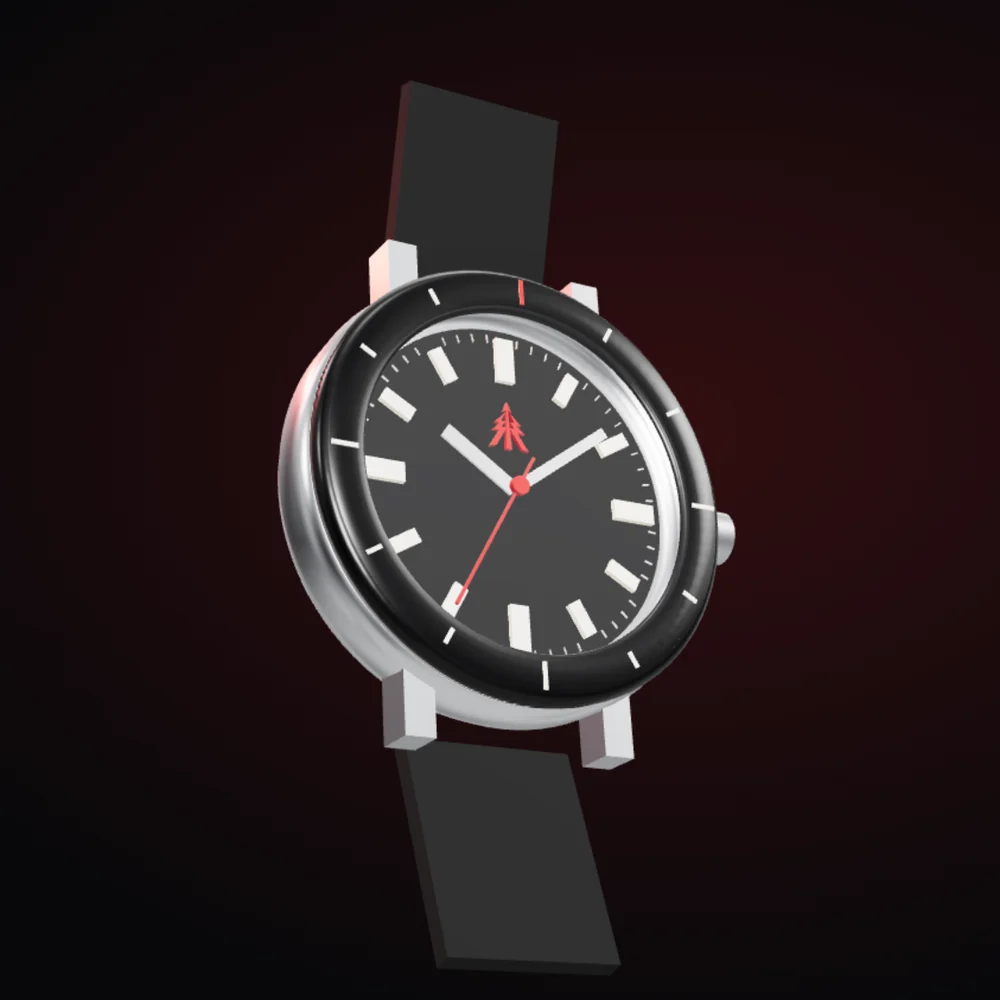
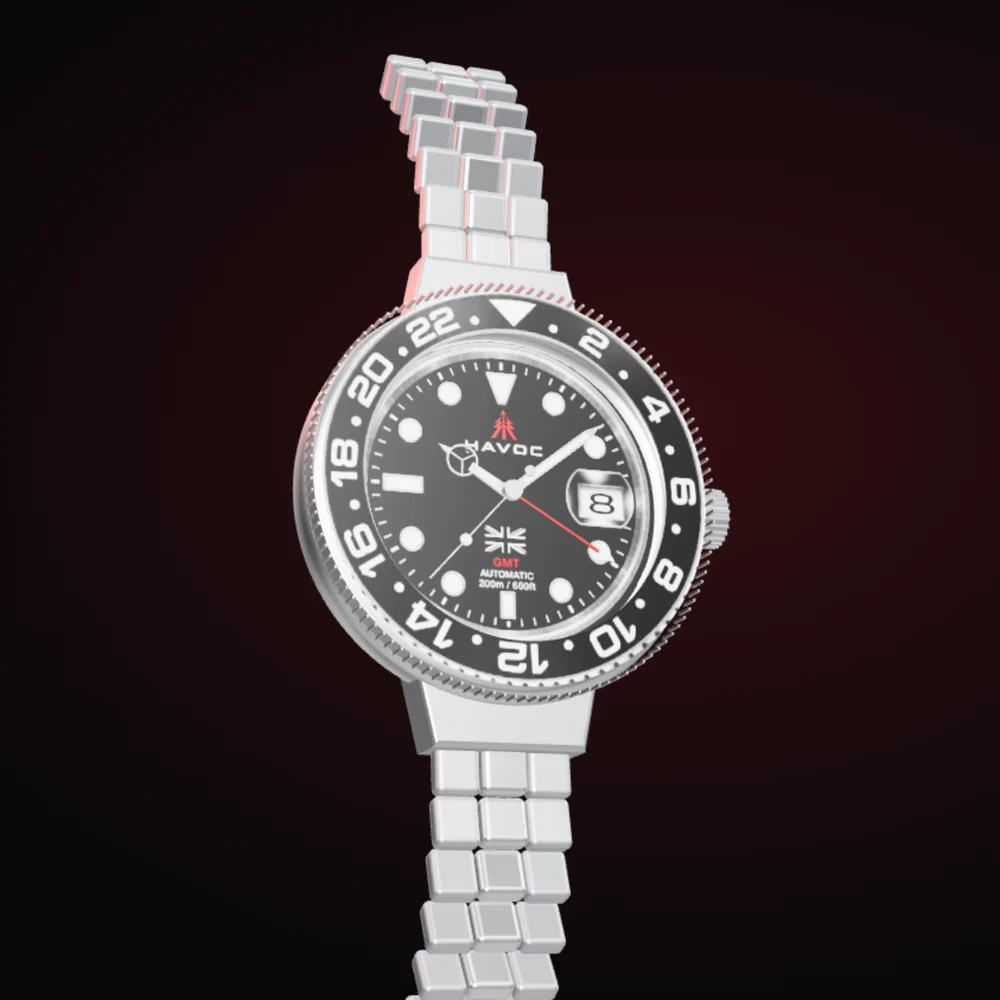
3D: real Challenger GMT replica

Changed region(s): [[0.279, 0.031, 0.744, 1.0]]

diff --git a/src/scripts/watch3d.ts b/src/scripts/watch3d.ts
@@ -1,5 +1,6 @@
 import * as THREE from 'three';
 import { RoomEnvironment } from 'three/examples/jsm/environments/RoomEnvironment.js';
+import { RoundedBoxGeometry } from 'three/examples/jsm/geometries/RoundedBoxGeometry.js';
 import { gsap } from 'gsap';
 
 type Opts = { section: HTMLElement; stage: HTMLElement; list: HTMLElement; replay: HTMLButtonElement; onReady?: () => void };
@@ -19,7 +20,7 @@ function markShape(size: number) {
   return shape;
 }
 
-export function mountWatch({ section, stage, list, replay, onReady }: Opts) {
+export async function mountWatch({ section, stage, list, replay, onReady }: Opts) {
   const host = stage.querySelector<HTMLElement>('[data-wb-canvas]')!;
   const isPhone = window.matchMedia('(max-width: 899px)').matches;
   const renderer = new THREE.WebGLRenderer({ antialias: true, alpha: true, powerPreference: 'high-performance' });
@@ -36,7 +37,7 @@ export function mountWatch({ section, stage, list, replay, onReady }: Opts) {
   scene.environment = pmrem.fromScene(new RoomEnvironment(), 0.04).texture;
 
   const camera = new THREE.PerspectiveCamera(28, 1, 0.1, 100);
-  camera.position.set(0, 0, 9.2);
+  camera.position.set(0, 0, 10.4);
 
   const key = new THREE.DirectionalLight(0xffffff, 1.4); key.position.set(3, 4, 5); scene.add(key);
   const rim = new THREE.PointLight(0xc8282c, 26, 12, 1.6); rim.position.set(-2.6, 1.8, -1.5); scene.add(rim);
@@ -58,71 +59,118 @@ export function mountWatch({ section, stage, list, replay, onReady }: Opts) {
   const parts: Record<string, THREE.Group> = {};
   const mk = (name: string) => { const g = new THREE.Group(); g.name = name; parts[name] = g; watch.add(g); return g; };
 
-  // CASE (+ lugs, crown, caseback, straps)
+  // ── Replica of the HAVOC Challenger GMT ──
+  // Dial and bezel are textures cut from the real product photo (hands painted out),
+  // so every print, numeral and the date window are the real watch. 1 unit = 410px of that photo.
+  const PX = 1.04 / 410;
+  const texLoader = new THREE.TextureLoader();
+  const loadTex = (u: string) => new Promise<THREE.Texture>((res, rej) => texLoader.load(u, (t) => { t.colorSpace = THREE.SRGBColorSpace; t.anisotropy = Math.min(8, renderer.capabilities.getMaxAnisotropy()); res(t); }, undefined, rej));
+  const [dialTex, bezelTex] = await Promise.all([loadTex('/img/gmt-dial.webp'), loadTex('/img/gmt-bezel.webp')]);
+  const printed = (map: THREE.Texture) => new THREE.MeshStandardMaterial({ map, metalness: 0.15, roughness: 0.35, transparent: false });
+
+  // CASE (+ lugs, crown, Oyster-style bracelet) — highlighted with the bezel as "Case"
   const caseG = mk('case');
-  const prof = [[0, -0.24], [0.96, -0.24], [1.02, -0.2], [1.06, -0.1], [1.07, 0.06], [1.04, 0.14], [0.98, 0.17], [0.86, 0.17], [0.86, 0.05], [0, 0.05]].map(([x, y]) => new THREE.Vector2(x, y));
-  const caseMesh = new THREE.Mesh(new THREE.LatheGeometry(prof, 96), steel);
+  const prof = [[0, -0.24], [0.98, -0.24], [1.04, -0.2], [1.08, -0.1], [1.09, 0.06], [1.07, 0.14], [1.02, 0.17], [0.86, 0.17], [0.86, 0.05], [0, 0.05]].map(([x, y]) => new THREE.Vector2(x, y));
+  const caseMesh = new THREE.Mesh(new THREE.LatheGeometry(prof, 128), steel);
   caseMesh.rotation.x = Math.PI / 2; caseG.add(caseMesh);
-  const lugGeo = new THREE.BoxGeometry(0.15, 0.42, 0.2);
-  [[-0.5, 0.98], [0.5, 0.98], [-0.5, -0.98], [0.5, -0.98]].forEach(([x, y]) => { const l = new THREE.Mesh(lugGeo, steelBrushed); l.position.set(x, y, -0.02); caseG.add(l); });
-  const crown = new THREE.Mesh(new THREE.CylinderGeometry(0.13, 0.13, 0.2, 32), steelBrushed);
-  crown.rotation.z = Math.PI / 2; crown.position.set(1.15, 0, -0.02); caseG.add(crown);
-  const strapGeo = new THREE.BoxGeometry(0.84, 1.05, 0.1);
-  [1, -1].forEach((s) => { const st = new THREE.Mesh(strapGeo, rubber); st.position.set(0, s * 1.62, -0.12); st.rotation.x = s * 0.3; caseG.add(st); });
+  // lugs: taper from the case into the bracelet width
+  const lugShape = new THREE.Shape(); lugShape.moveTo(-0.5, -0.1); lugShape.lineTo(0.5, -0.1); lugShape.lineTo(0.385, 0.42); lugShape.lineTo(-0.385, 0.42); lugShape.closePath();
+  const lugGeo = new THREE.ExtrudeGeometry(lugShape, { depth: 0.22, bevelEnabled: true, bevelThickness: 0.03, bevelSize: 0.03, bevelSegments: 3 });
+  [1, -1].forEach((sgn) => { const l = new THREE.Mesh(lugGeo, steelBrushed); l.position.set(0, sgn * 0.86, -0.19); if (sgn < 0) l.rotation.z = Math.PI; caseG.add(l); });
+  // crown with knurled edge
+  const crown = new THREE.Mesh(new THREE.CylinderGeometry(0.15, 0.15, 0.2, 40, 1), steelBrushed);
+  crown.rotation.z = Math.PI / 2; crown.position.set(1.17, 0, -0.04); caseG.add(crown);
+  for (let i = 0; i < 24; i++) { const a = (i / 24) * Math.PI * 2; const k = new THREE.Mesh(new THREE.BoxGeometry(0.2, 0.018, 0.018), steel); k.position.set(1.17, Math.cos(a) * 0.152, -0.04 + Math.sin(a) * 0.152); caseG.add(k); }
+  // bracelet: three-row Oyster-style links, chained so each row hinges off the one before
+  const LEN = 0.26, outerLink = new RoundedBoxGeometry(0.235, LEN, 0.12, 3, 0.035), midLink = new RoundedBoxGeometry(0.25, LEN * 0.96, 0.13, 3, 0.04);
+  [1, -1].forEach((sgn) => {
+    let jy = 1.27, jz = -0.09, ang = 0.02;
+    for (let i = 0; i < 7; i++) {
+      const dy = Math.cos(ang) * LEN, dz = -Math.sin(ang) * LEN;
+      const row = new THREE.Group();
+      [-0.245, 0.245].forEach((x) => { const m = new THREE.Mesh(outerLink, steelBrushed); m.position.x = x; row.add(m); });
+      const c = new THREE.Mesh(midLink, steel); c.position.z = 0.008; row.add(c);
+      row.position.set(0, sgn * (jy + dy / 2), jz + dz / 2); row.rotation.x = sgn * ang;
+      caseG.add(row);
+      jy += dy; jz += dz; ang += 0.14;
+    }
+  });
 
-  // BEZEL (highlighted with the case)
+  // BEZEL — black ceramic insert textured from the real 24-hour bezel, on a knurled steel ring
   const bezelG = mk('bezel');
-  const bprof = [[0.82, 0.17], [1.04, 0.17], [1.05, 0.24], [1.0, 0.29], [0.84, 0.29], [0.82, 0.26]].map(([x, y]) => new THREE.Vector2(x, y));
-  const bezel = new THREE.Mesh(new THREE.LatheGeometry(bprof, 96), ceramic); bezel.rotation.x = Math.PI / 2; bezelG.add(bezel);
-  const tickGeo = new THREE.BoxGeometry(0.022, 0.08, 0.01);
-  for (let i = 0; i < 60; i++) {
-    if (i % 5 !== 0) continue;
-    const a = (i / 60) * Math.PI * 2;
-    const t = new THREE.Mesh(tickGeo, i === 0 ? red : lume);
-    t.position.set(Math.sin(a) * 0.93, Math.cos(a) * 0.93, 0.295); t.rotation.z = -a; t.scale.y = i % 15 === 0 ? 1.6 : 1; bezelG.add(t);
-  }
+  const coin = new THREE.Mesh(new THREE.CylinderGeometry(1.085, 1.085, 0.12, 120, 1, true), steelBrushed);
+  coin.rotation.x = Math.PI / 2; coin.position.z = 0.23; bezelG.add(coin);
+  for (let i = 0; i < 120; i++) { const a = (i / 120) * Math.PI * 2; const k = new THREE.Mesh(new THREE.BoxGeometry(0.014, 0.014, 0.12), steel); k.position.set(Math.cos(a) * 1.09, Math.sin(a) * 1.09, 0.23); bezelG.add(k); }
+  const insert = new THREE.Mesh(new THREE.RingGeometry(320 * PX, 410 * PX, 160, 1), printed(bezelTex));
+  insert.position.z = 0.292; bezelG.add(insert);
+  // inner flange (rehaut) is printed in the dial texture; add a thin steel wall so the bezel has depth
+  const wall = new THREE.Mesh(new THREE.CylinderGeometry(320 * PX, 320 * PX, 0.12, 120, 1, true), steel);
+  wall.rotation.x = Math.PI / 2; wall.position.z = 0.23; bezelG.add(wall);
 
-  // DIAL (+ indices)
+  // DIAL — real dial print (markers, HAVOC, flag, GMT AUTOMATIC 200m/660ft, date window)
   const dialG = mk('dial');
-  const dial = new THREE.Mesh(new THREE.CylinderGeometry(0.82, 0.82, 0.04, 96), dialMat); dial.rotation.x = Math.PI / 2; dial.position.z = 0.07; dialG.add(dial);
-  const idxGeo = new THREE.BoxGeometry(0.07, 0.17, 0.03);
-  for (let i = 0; i < 12; i++) {
-    const a = (i / 12) * Math.PI * 2;
-    const m = new THREE.Mesh(idxGeo, lume);
-    m.position.set(Math.sin(a) * 0.66, Math.cos(a) * 0.66, 0.105); m.rotation.z = -a;
-    if (i % 3 === 0) m.scale.set(1.35, 1.3, 1);
-    dialG.add(m);
-  }
-  const minGeo = new THREE.BoxGeometry(0.008, 0.04, 0.01);
-  for (let i = 0; i < 60; i++) { if (i % 5 === 0) continue; const a = (i / 60) * Math.PI * 2; const m = new THREE.Mesh(minGeo, handMat); m.position.set(Math.sin(a) * 0.77, Math.cos(a) * 0.77, 0.095); m.rotation.z = -a; dialG.add(m); }
+  const dial = new THREE.Mesh(new THREE.CircleGeometry(330 * PX, 160), printed(dialTex));
+  dial.position.z = 0.09; dialG.add(dial);
 
-  // LOGO (HAVOC mark, extruded, red)
+  // LOGO — the red HAVOC mark, applied at its real position on the dial
   const logoG = mk('logo');
-  const logo = new THREE.Mesh(new THREE.ExtrudeGeometry(markShape(0.24), { depth: 0.02, bevelEnabled: false }), red);
-  logo.position.set(0, 0.33, 0.09); logoG.add(logo);
+  const logo = new THREE.Mesh(new THREE.ExtrudeGeometry(markShape(66 * PX), { depth: 0.012, bevelEnabled: false }), red);
+  logo.position.set(-2.5 * PX, 150 * PX, 0.092); logoG.add(logo);
 
-  // HANDS (10:09)
+  // HANDS — shapes and positions measured from the product photo
   const handsG = mk('hands');
-  const hand = (len: number, w: number, mat: THREE.Material, angle: number, z: number, tail = 0) => {
-    const g = new THREE.Group();
-    const m = new THREE.Mesh(new THREE.BoxGeometry(w, len + tail, 0.014), mat); m.position.y = (len - tail) / 2; g.add(m);
-    g.rotation.z = -angle; g.position.z = z; handsG.add(g); return g;
-  };
-  hand(0.42, 0.075, handMat, (10.15 / 12) * Math.PI * 2, 0.13);
-  hand(0.62, 0.055, handMat, (9 / 60) * Math.PI * 2, 0.15);
-  hand(0.7, 0.014, red, (35 / 60) * Math.PI * 2, 0.17, 0.18);
-  const cap = new THREE.Mesh(new THREE.CylinderGeometry(0.045, 0.045, 0.03, 24), red); cap.rotation.x = Math.PI / 2; cap.position.z = 0.18; handsG.add(cap);
+  const lumeHand = new THREE.MeshStandardMaterial({ color: 0xf4f3ee, metalness: 0.1, roughness: 0.35, emissive: 0x1d1d1a });
+  const frame = handMat;
+  const at = (deg: number, z: number) => { const g = new THREE.Group(); g.rotation.z = -THREE.MathUtils.degToRad(deg); g.position.z = z; handsG.add(g); return g; };
+  const flat = (shape: THREE.Shape, mat: THREE.Material, d = 0.012) => new THREE.Mesh(new THREE.ExtrudeGeometry(shape, { depth: d, bevelEnabled: false, curveSegments: 24 }), mat);
+  // hour: Mercedes hand
+  {
+    const g = at(302, 0.12);
+    const L = 150 * PX, rc = 34 * PX, w = 13 * PX;
+    const shaft = new THREE.Shape(); shaft.moveTo(-w, 0); shaft.lineTo(w, 0); shaft.lineTo(w * 0.8, L - rc * 1.6); shaft.lineTo(-w * 0.8, L - rc * 1.6); shaft.closePath();
+    g.add(flat(shaft, frame));
+    const ring = new THREE.Shape(); ring.absarc(0, L - rc, rc, 0, Math.PI * 2, false); const hole = new THREE.Path(); hole.absarc(0, L - rc, rc - 5 * PX, 0, Math.PI * 2, true); ring.holes.push(hole);
+    g.add(flat(ring, frame));
+    for (let i = 0; i < 3; i++) { const sp = new THREE.Mesh(new THREE.BoxGeometry(4 * PX, rc, 0.012), frame); sp.geometry.translate(0, rc / 2, 0.006); sp.position.y = L - rc; sp.rotation.z = (i * 2 * Math.PI) / 3; g.add(sp); }
+    const tip = new THREE.Shape(); tip.moveTo(-9 * PX, L - 4 * PX); tip.lineTo(9 * PX, L - 4 * PX); tip.lineTo(0, L + 26 * PX); tip.closePath(); g.add(flat(tip, frame));
+    const lumeStrip = new THREE.Mesh(new THREE.BoxGeometry(10 * PX, L - rc * 2 - 30 * PX, 0.004), lumeHand); lumeStrip.position.set(0, 30 * PX + (L - rc * 2 - 30 * PX) / 2, 0.013); g.add(lumeStrip);
+  }
+  // minute: long sword
+  {
+    const g = at(52, 0.14);
+    const L = 262 * PX, w = 11 * PX;
+    const sw = new THREE.Shape(); sw.moveTo(-w, 0); sw.lineTo(w, 0); sw.lineTo(w, L - 40 * PX); sw.lineTo(0, L); sw.lineTo(-w, L - 40 * PX); sw.closePath();
+    g.add(flat(sw, frame));
+    const lumeStrip = new THREE.Mesh(new THREE.BoxGeometry(11 * PX, L - 80 * PX, 0.004), lumeHand); lumeStrip.position.set(0, 40 * PX + (L - 80 * PX) / 2, 0.013); g.add(lumeStrip);
+  }
+  // GMT: thin red hand with white arrow tip
+  {
+    const g = at(121, 0.16);
+    const L = 258 * PX;
+    const rod = new THREE.Mesh(new THREE.BoxGeometry(5 * PX, L - 34 * PX, 0.01), red); rod.position.y = (L - 34 * PX) / 2; g.add(rod);
+    const tri = new THREE.Shape(); tri.moveTo(-22 * PX, L - 40 * PX); tri.lineTo(22 * PX, L - 40 * PX); tri.lineTo(0, L); tri.closePath(); g.add(flat(tri, lumeHand, 0.01));
+  }
+  // seconds: thin steel with lume lollipop and counterweight
+  {
+    const g = at(222.7, 0.18);
+    const L = 264 * PX, back = 72 * PX;
+    const rod = new THREE.Mesh(new THREE.BoxGeometry(4 * PX, L + back, 0.008), frame); rod.position.y = (L - back) / 2; g.add(rod);
+    const pop = new THREE.Mesh(new THREE.CylinderGeometry(13 * PX, 13 * PX, 0.01, 28), frame); pop.rotation.x = Math.PI / 2; pop.position.y = 150 * PX; g.add(pop);
+    const popL = new THREE.Mesh(new THREE.CylinderGeometry(9 * PX, 9 * PX, 0.012, 28), lumeHand); popL.rotation.x = Math.PI / 2; popL.position.set(0, 150 * PX, 0.002); g.add(popL);
+    const cw = new THREE.Mesh(new THREE.CylinderGeometry(12 * PX, 12 * PX, 0.01, 28), frame); cw.rotation.x = Math.PI / 2; cw.position.y = -back + 12 * PX; g.add(cw);
+  }
+  const cap = new THREE.Mesh(new THREE.CylinderGeometry(20 * PX, 22 * PX, 0.03, 32), handMat); cap.rotation.x = Math.PI / 2; cap.position.z = 0.19; handsG.add(cap);
 
   // CRYSTAL
   const crystalG = mk('crystal');
-  const crystal = new THREE.Mesh(new THREE.CylinderGeometry(0.84, 0.84, 0.03, 96), glass); crystal.rotation.x = Math.PI / 2; crystal.position.z = 0.29; crystalG.add(crystal);
+  const crystal = new THREE.Mesh(new THREE.CylinderGeometry(322 * PX, 322 * PX, 0.03, 96), glass); crystal.rotation.x = Math.PI / 2; crystal.position.z = 0.27; crystalG.add(crystal);
 
   // per-part highlight: clone materials so emissive can be set per group
   const groups: Record<PartKey, THREE.Group[]> = { case: [caseG, bezelG], dial: [dialG], logo: [logoG], hands: [handsG] };
   (Object.keys(groups) as PartKey[]).forEach((k) => groups[k].forEach((g) => g.traverse((o: any) => { if (o.isMesh) { o.material = o.material.clone(); o.userData.part = k; o.userData.baseEm = o.material.emissive?.clone(); } })));
 
   // final pose + exploded offsets (along the dial normal, one clean move)
-  const finalRot = new THREE.Euler(-0.42, 0.52, 0.06);
+  const finalRot = new THREE.Euler(-0.3, 0.36, 0.03);
   const startRot = new THREE.Euler(-0.95, 1.05, -0.12);
   const explode: Record<string, { z: number; r: number }> = {
     case: { z: 0, r: 0 }, bezel: { z: 0.9, r: -0.9 }, dial: { z: 1.65, r: 0.4 }, logo: { z: 2.35, r: 0 }, hands: { z: 3.0, r: 1.4 }, crystal: { z: 3.7, r: 0 },
